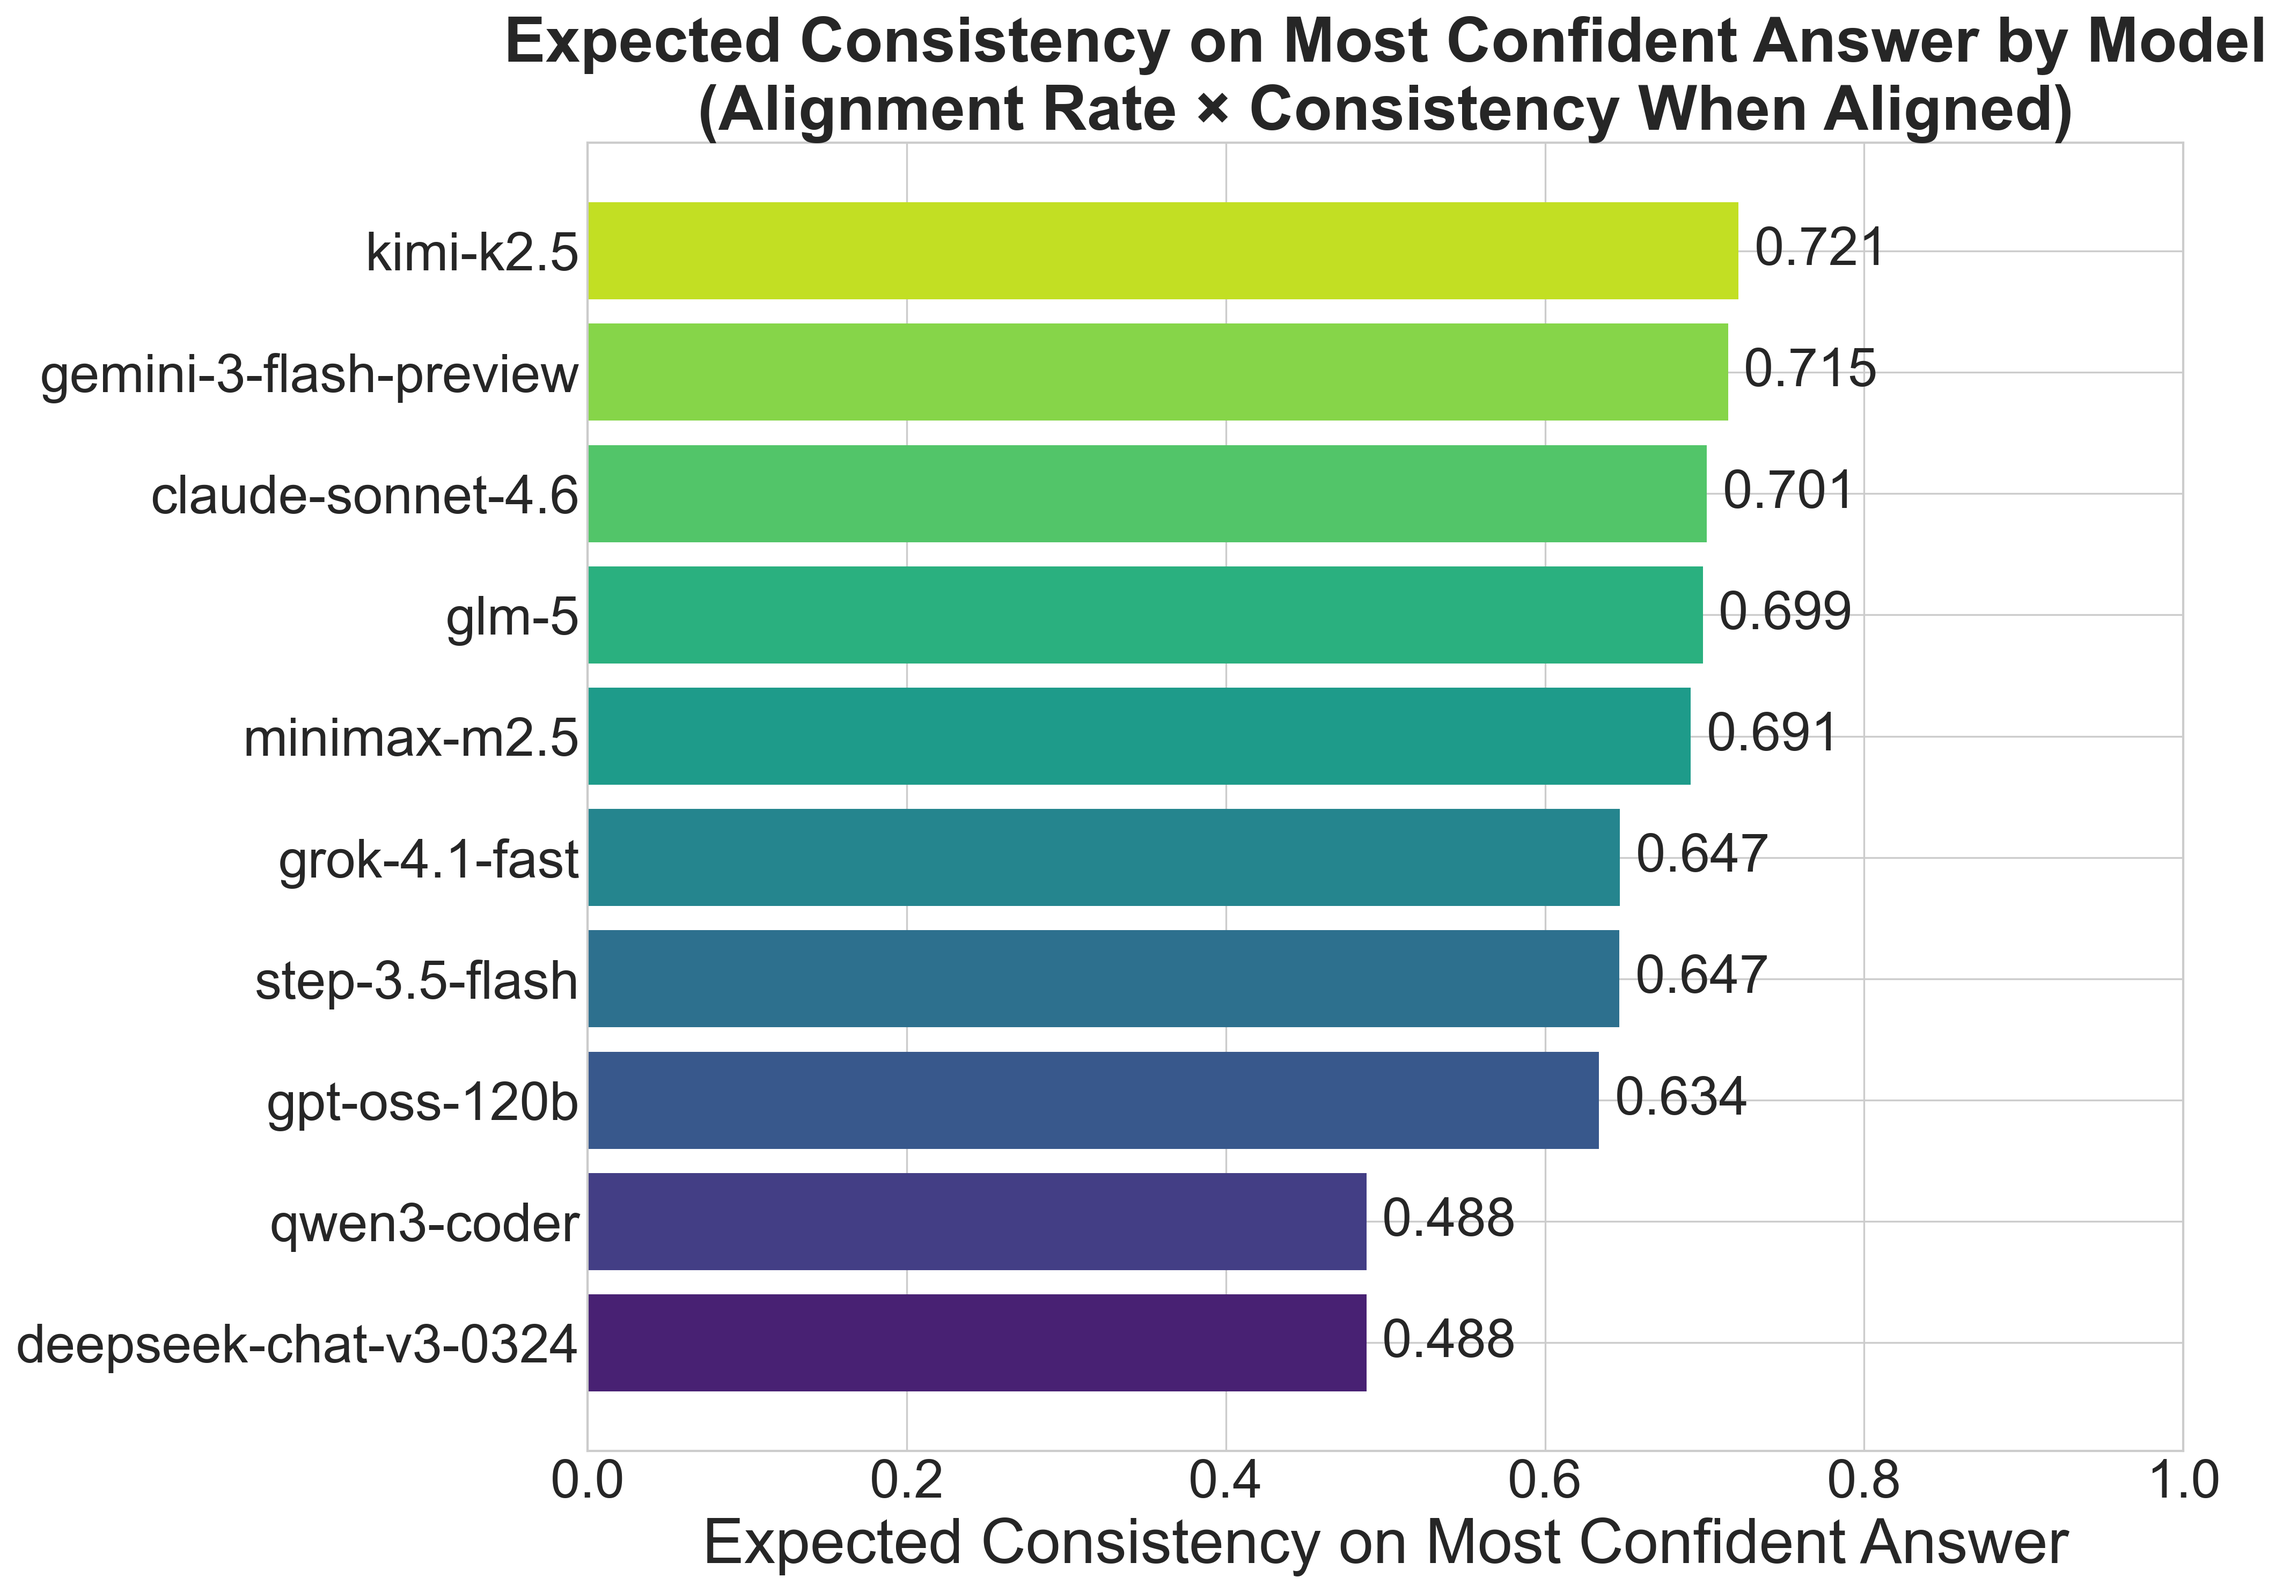
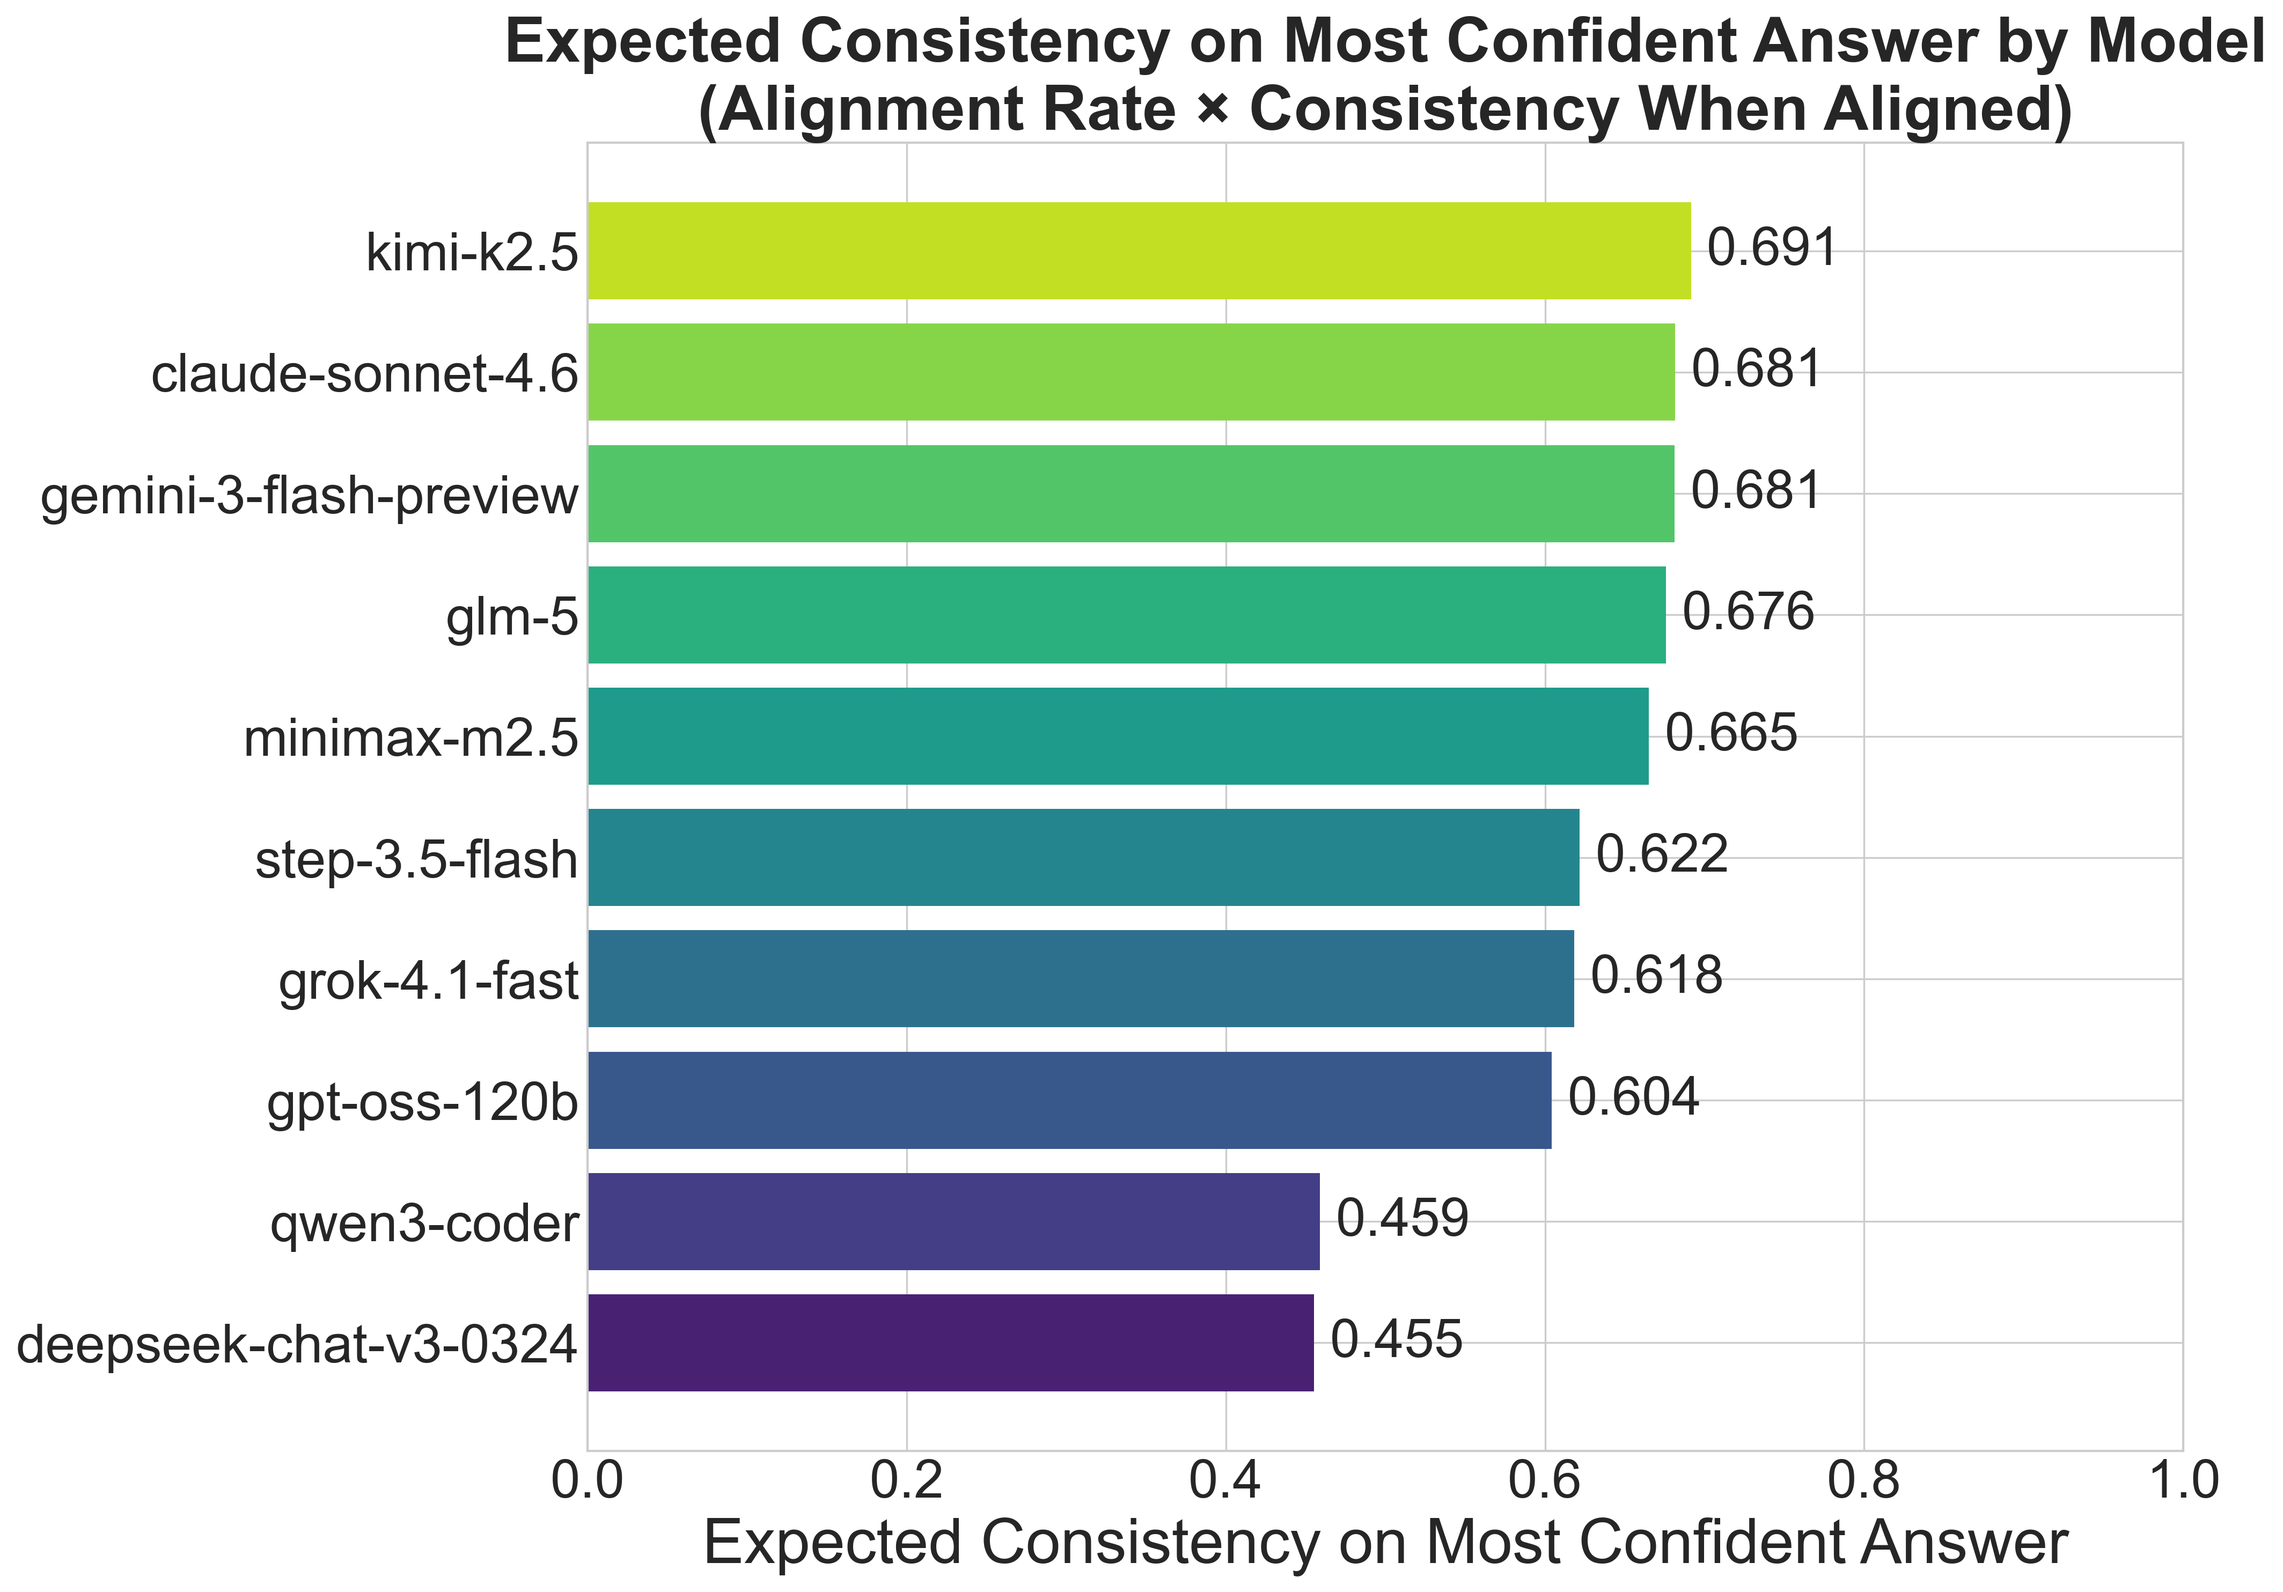
Updated figures

diff --git a/analysis/visualizations.py b/analysis/visualizations.py
@@ -26,6 +26,11 @@ df['model_short'] = df['model'].apply(lambda x: x.split('/')[-1])
 COMPLEXITY_COLORS = {'simple': '#3498db', 'complex': '#e74c3c'}
 schema_complexity_map = df.drop_duplicates('schema_name').set_index('schema_name')['complexity']
 
+# Final snapshot per question (confidence_score and other question-level metrics)
+last_snap = df.loc[df.groupby('run_id')['num_queries'].idxmax()]
+# Final snapshot per model per question (consistency_score and other model-level metrics)
+last_snap_model = df.loc[df.groupby(['run_id', 'model'])['num_queries'].idxmax()]
+
 # Create output directory
 output_dir = Path(__file__).parent / "figures"
 output_dir.mkdir(exist_ok=True)
@@ -34,7 +39,7 @@ output_dir.mkdir(exist_ok=True)
 # Figure 1: Average Consistency Score by Model
 # ============================================================================
 fig, ax = plt.subplots(figsize=(12, 6))
-model_consistency = df.groupby('model_short')['consistency_score'].mean().sort_values(ascending=True)
+model_consistency = last_snap_model.groupby('model_short')['consistency_score'].mean().sort_values(ascending=True)
 colors = sns.color_palette("viridis", len(model_consistency))
 bars = ax.barh(model_consistency.index, model_consistency.values, color=colors)
 ax.set_xlabel('Average Consistency Score', fontsize=24)
@@ -109,11 +114,7 @@ plt.close()
 # ============================================================================
 fig, ax = plt.subplots(figsize=(3.33, 6.0))
 # Use run_id to get one confidence score per run, then group by schema
-if 'run_id' in df.columns:
-    run_confidence = df.drop_duplicates(subset=['run_id', 'num_queries'])
-    schema_confidence = run_confidence.groupby('schema_name')['confidence_score'].mean().sort_values(ascending=True)
-else:
-    schema_confidence = df.groupby('schema_name')['confidence_score'].mean().sort_values(ascending=True)
+schema_confidence = last_snap.groupby('schema_name')['confidence_score'].mean().sort_values(ascending=True)
 colors = [COMPLEXITY_COLORS.get(schema_complexity_map.get(s, 'simple'), '#888888')
           for s in schema_confidence.index]
 def wrap_if_long(name, threshold=14):
@@ -160,7 +161,7 @@ all_schemas = df['schema_name'].unique()
 simple_schemas = sorted([s for s in all_schemas if schema_complexity_map.get(s) == 'simple'])
 complex_schemas = sorted([s for s in all_schemas if schema_complexity_map.get(s) == 'complex'])
 ordered_schemas = simple_schemas + complex_schemas
-pivot_table = df.pivot_table(values='consistency_score', index='model_short',
+pivot_table = last_snap_model.pivot_table(values='consistency_score', index='model_short',
                               columns='schema_name', aggfunc='mean')
 pivot_table = pivot_table.reindex(columns=ordered_schemas)
 sns.heatmap(pivot_table, annot=True, fmt='.2f', cmap='RdYlGn',
@@ -204,8 +205,8 @@ plt.close()
 # Figure 6: Simple vs Complex Schemas - Model Consistency Comparison
 # ============================================================================
 if 'complexity' in df.columns:
-    simple_by_model = df[df['complexity'] == 'simple'].groupby('model_short')['consistency_score'].mean()
-    complex_by_model = df[df['complexity'] == 'complex'].groupby('model_short')['consistency_score'].mean()
+    simple_by_model = last_snap_model[last_snap_model['complexity'] == 'simple'].groupby('model_short')['consistency_score'].mean()
+    complex_by_model = last_snap_model[last_snap_model['complexity'] == 'complex'].groupby('model_short')['consistency_score'].mean()
 
     # Align models and sort by simple score descending
     all_models = simple_by_model.index.union(complex_by_model.index)
@@ -248,11 +249,8 @@ else:
 # Figure 7: Confidence Score Distribution
 # ============================================================================
 fig, ax = plt.subplots(figsize=(10, 6))
-# Get unique questions (one per run)
-if 'run_id' in df.columns:
-    unique_evals = df.drop_duplicates(subset=['run_id', 'num_queries'])
-else:
-    unique_evals = df.drop_duplicates(subset=['timestamp', 'question', 'num_queries'])
+# Get each question's final state (max query snapshot)
+unique_evals = last_snap
 ax.hist(unique_evals['confidence_score'], bins=20, edgecolor='black', alpha=0.7, color='teal')
 ax.axvline(unique_evals['confidence_score'].mean(), color='red', linestyle='--',
            label=f'Mean: {unique_evals["confidence_score"].mean():.3f}')
@@ -271,8 +269,8 @@ plt.close()
 # Figure 8: Model Ranking Distribution (How often each model produces top result)
 # ============================================================================
 fig, ax = plt.subplots(figsize=(12, 6))
-rank_1_counts = df[df['model_result_rank'] == 1].groupby('model_short').size()
-total_counts = df.groupby('model_short').size()
+rank_1_counts = last_snap_model[last_snap_model['model_result_rank'] == 1].groupby('model_short').size()
+total_counts = last_snap_model.groupby('model_short').size()
 rank_1_percentage = (rank_1_counts / total_counts * 100).sort_values(ascending=True)
 colors = sns.color_palette("Greens_d", len(rank_1_percentage))
 bars = ax.barh(rank_1_percentage.index, rank_1_percentage.values, color=colors)
@@ -320,8 +318,8 @@ plt.close()
 # Figure 10: Box Plot - Consistency Score Distribution by Model
 # ============================================================================
 fig, ax = plt.subplots(figsize=(14, 10))
-model_order = df.groupby('model_short')['consistency_score'].median().sort_values().index
-sns.boxplot(data=df, x='model_short', y='consistency_score', order=model_order, ax=ax, palette='Set2')
+model_order = last_snap_model.groupby('model_short')['consistency_score'].median().sort_values().index
+sns.boxplot(data=last_snap_model, x='model_short', y='consistency_score', order=model_order, ax=ax, palette='Set2')
 ax.set_xlabel('Model', fontsize=24)
 ax.set_ylabel('Consistency Score', fontsize=24)
 ax.set_title('Consistency Score Distribution by Model', fontsize=22, fontweight='bold')
@@ -365,7 +363,7 @@ plt.yticks(rotation=0)
 #   Confidence Score (5) vs Number of Episodes (0)
 #   Confidence Score (5) vs Unique Results (4)
 #   Models Contributing (6) vs Confidence Score (5)
-highlighted_cells = [(2, 0), (1, 0), (5, 0), (5, 4), (6, 5)]
+highlighted_cells = [(2, 0), (1, 0), (5, 0), (5, 1), (5, 4), (6, 5)]
 for (row, col) in highlighted_cells:
     ax.add_patch(plt.Rectangle((col, row), 1, 1, fill=False,
                                 edgecolor='red', linewidth=2.5, linestyle='--'))
@@ -382,8 +380,8 @@ plt.close()
 # consistency_score in those rows tells us how reliably the model produced that result.
 fig, ax = plt.subplots(figsize=(14, 10))
 
-confident_df = df[df['model_result_rank'] == 1]
-total_runs_per_model = df.groupby('model_short')['model_result_rank'].count()
+confident_df = last_snap_model[last_snap_model['model_result_rank'] == 1]
+total_runs_per_model = last_snap_model.groupby('model_short')['model_result_rank'].count()
 confident_runs_per_model = confident_df.groupby('model_short').size()
 alignment_rate = (confident_runs_per_model / total_runs_per_model * 100).fillna(0)
 
